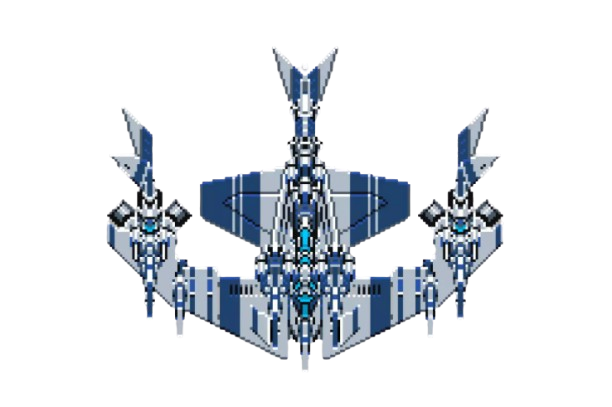
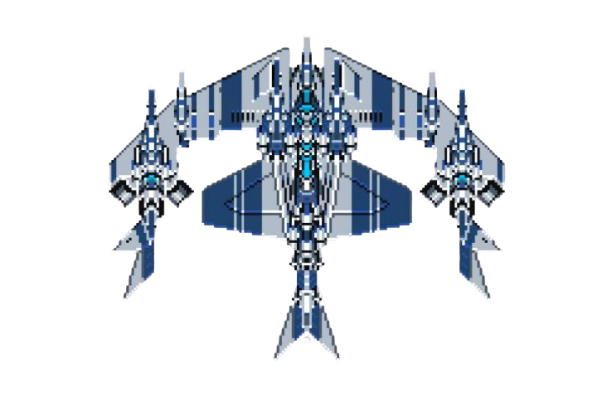
aluksen lisäys

Changed region(s): [[0.1552, 0.0885, 0.8382, 0.914]]

diff --git a/Assets/Scripts/liikkumisskripti.cs b/Assets/Scripts/liikkumisskripti.cs
@@ -12,6 +12,8 @@ public class liikkumisskripti : MonoBehaviour
 
     void Start()
     {
+        transform.rotation = Quaternion.identity;
+
         fixedY = transform.position.y;
 
         SpriteRenderer sr = GetComponent<SpriteRenderer>();
@@ -32,6 +34,11 @@ public class liikkumisskripti : MonoBehaviour
 
         minX = leftBoundary.x + halfWidth;
         maxX = rightBoundary.x - halfWidth;
+
+        float centerX = (minX + maxX) / 2f;
+        Vector3 pos = transform.position;
+        pos.x = centerX;
+        transform.position = pos;
     }
 
     void Update()
@@ -45,6 +52,7 @@ public class liikkumisskripti : MonoBehaviour
         pos.y = fixedY;
 
         transform.position = pos;
+
         if (armyGroup != null)
         {
             Vector3 armyTargetPos = transform.position + Vector3.left * armyFollowDistance;
